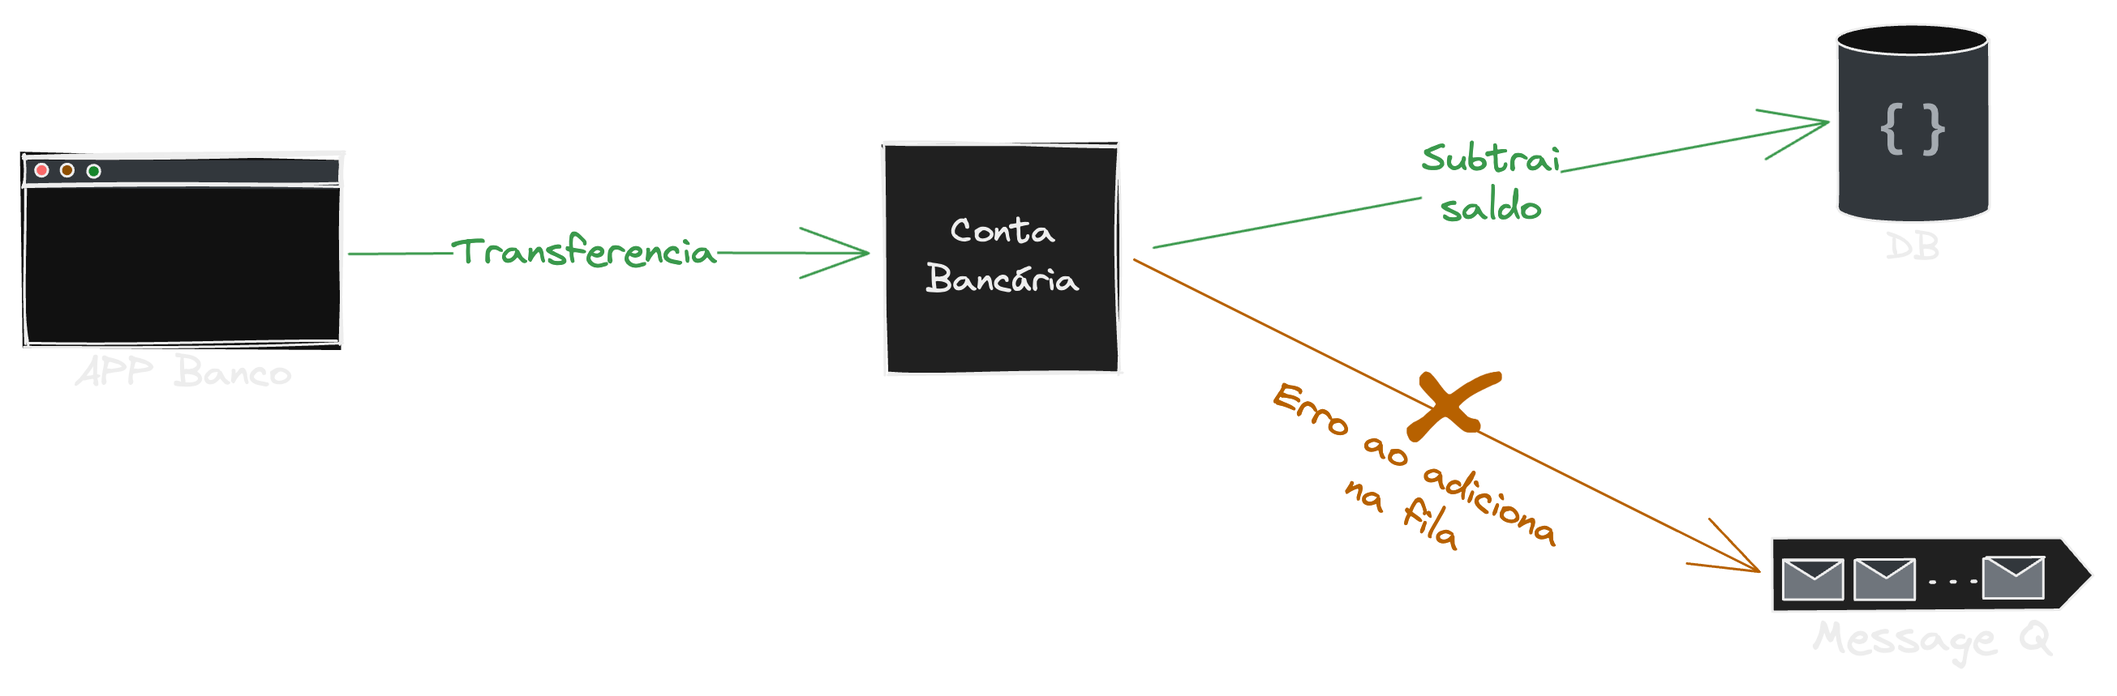
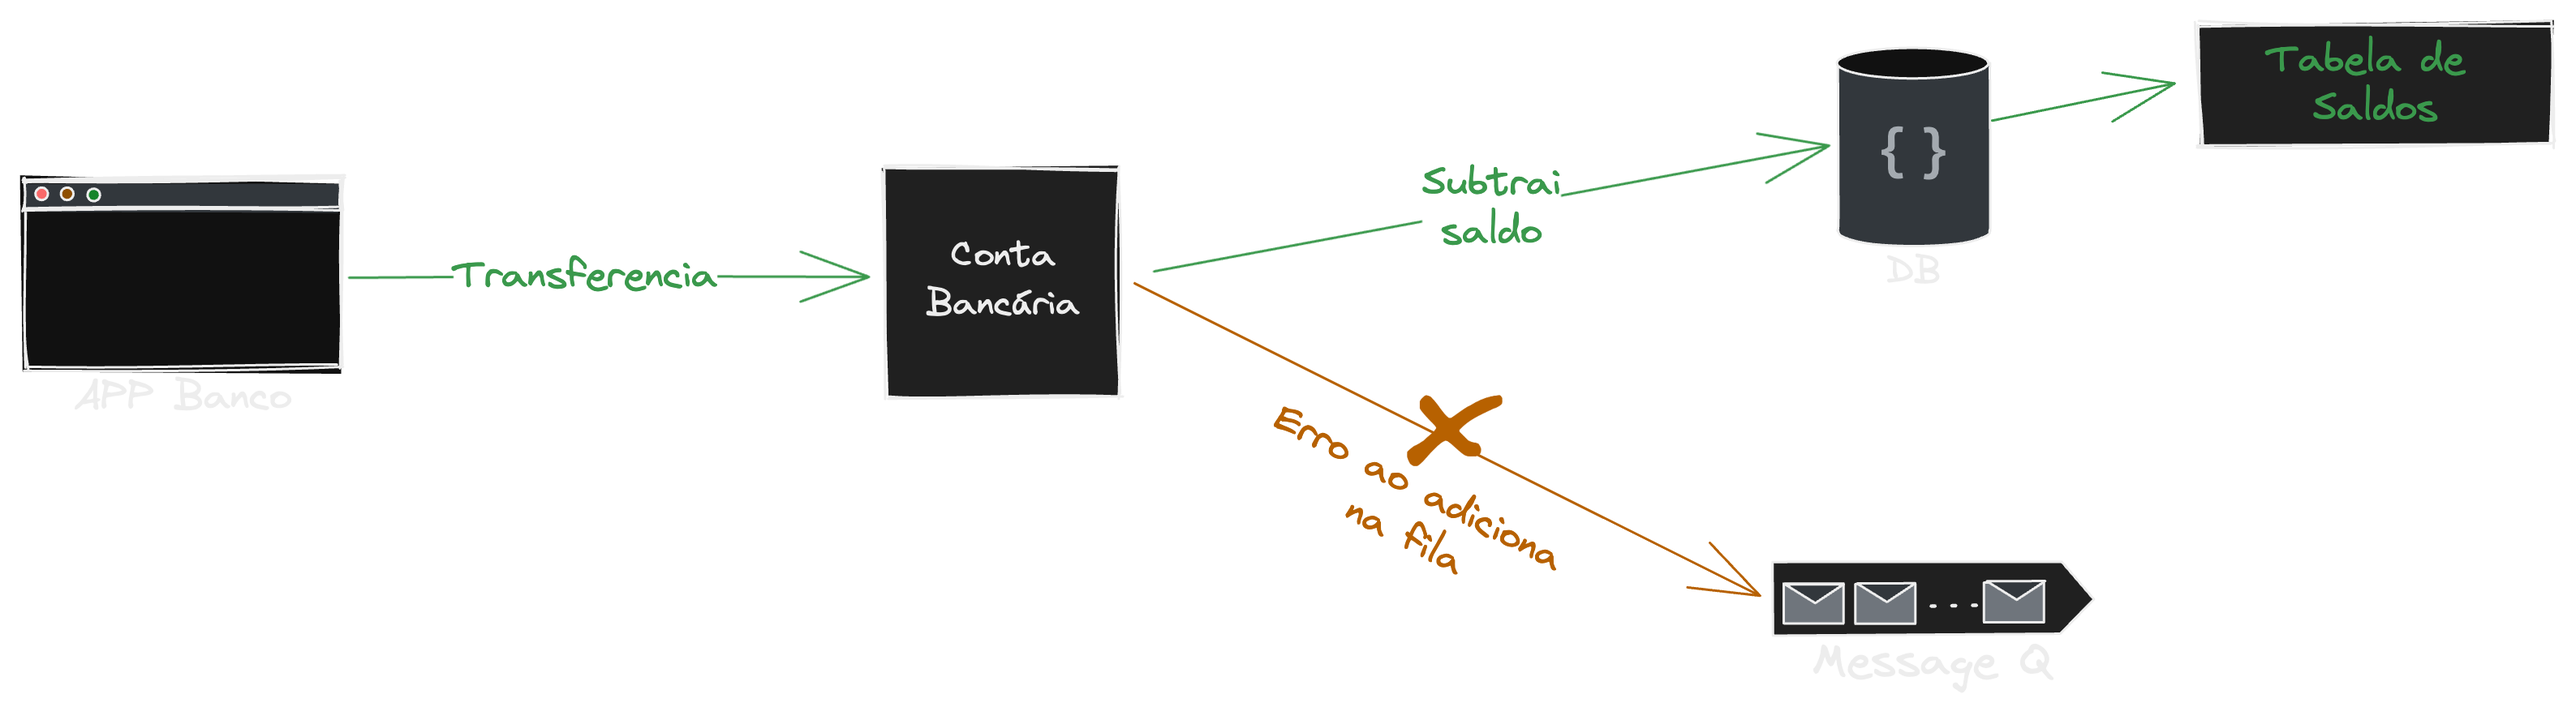
Adiciona explicação do fluxo

diff --git a/README.md b/README.md
@@ -1,6 +1,6 @@
 # Outbox Pattern
 
-Documentação com exemplos na prática de como funciona o Outbox Pattern em microsserviço.
+Documentação com exemplos na prática de como funciona o Outbox Pattern em microsserviço. 
 
 ## O que é o Outbox Pattern
 
@@ -20,7 +20,14 @@ Também conhecido como Transactional Outbox Pattern, é usado em situações ond
 
 ### Como ele funciona
 
+A grande maioria dos bancos de dados conseguem dar garantia de uma transação, que basicamente é executar mais de uma ação no banco de dados como se fosse uma só, aí todos funcionam ou nehuma funciona, e já que não da para fazer esse fluxo de transação entre um banco e um message broker como expliquei anteriormente, o Outbox Pattern tem como ideia pricipal de em uma unica transação para o banco de dados você salvar a ação, e o evento relacionado a ação, e depois vem uma oturo serviço que roda em background que pega a mensagem de evento do banco e coloca no message broker, dessa forma você nunca vai perder um evento, e vais ter a garantia se ele já foi enviado ou não.
 
+
+<img src="./images/outbox.png" width="700"/>
+
+
+
+### CDC - Change Data Capture
 
 ### Outras vantagens
 
@@ -29,3 +36,5 @@ TODO:
 ## Inbox Pattern
 
 TODO:
+
+Obs.: O exemplo usado não é 100% real, foram retirados alguns conceitos para facilitar a explicação*
